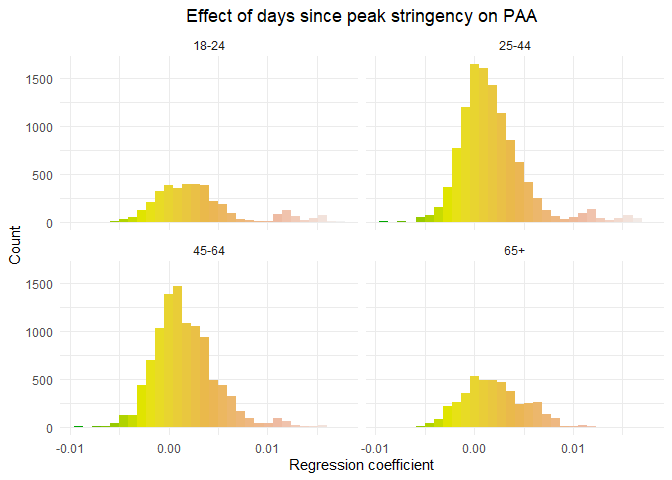
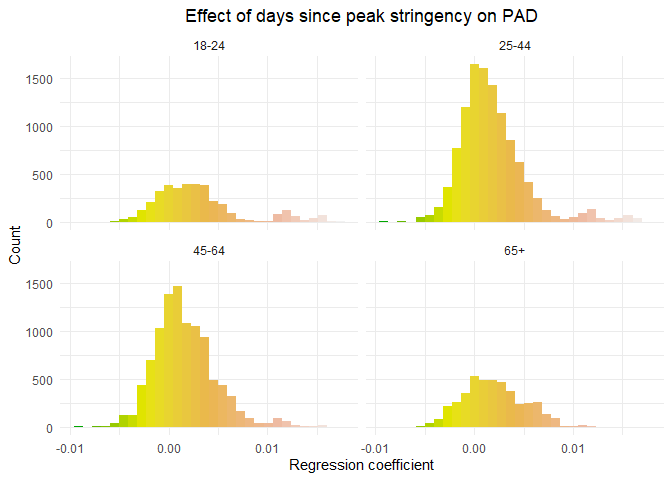
PAD

Changed region(s): [[0.2812, 0.0, 0.8125, 0.0625]]

diff --git a/Output Workstation/Second analysis best models/New with quadratic terms/PAD-all-phases-winning-models-and-quadratic-term.md b/Output Workstation/Second analysis best models/New with quadratic terms/PAD-all-phases-winning-models-and-quadratic-term.md
@@ -575,7 +575,7 @@ plot_PADp2_slope <- ggplot(data2, aes(x= DaysMax_p2.y, fill = ..x..)) +
   scale_fill_gradientn(colours = terrain.colors(5)) +
   theme_minimal()+
   theme(legend.position="none") + 
-  labs(title="Effect of days since peak stringency on PAA",
+  labs(title="Effect of days since peak stringency on PAD",
        x="Regression coefficient", y = "Count") +
   theme(plot.title = element_text(hjust = 0.5)) +
    facet_wrap(~ Age_new, labeller = labeller(Age_new = Age_labels)) 
@@ -998,7 +998,7 @@ plot_PADp3_slope <- ggplot(data2, aes(x= DaysPhase3.y, fill = ..x..)) +
   scale_fill_gradientn(colours = terrain.colors(5)) +
   theme_minimal()+
   theme(legend.position="none") + 
-  labs(title="Effect of days since decline in peak stringency on PAA",
+  labs(title="Effect of days since decline in peak stringency on PAD",
        x="Regression coefficient", y = "Count") +
   theme(plot.title = element_text(hjust = 0.5)) +
    facet_wrap(~ Age_new, labeller = labeller(Age_new = Age_labels)) 
